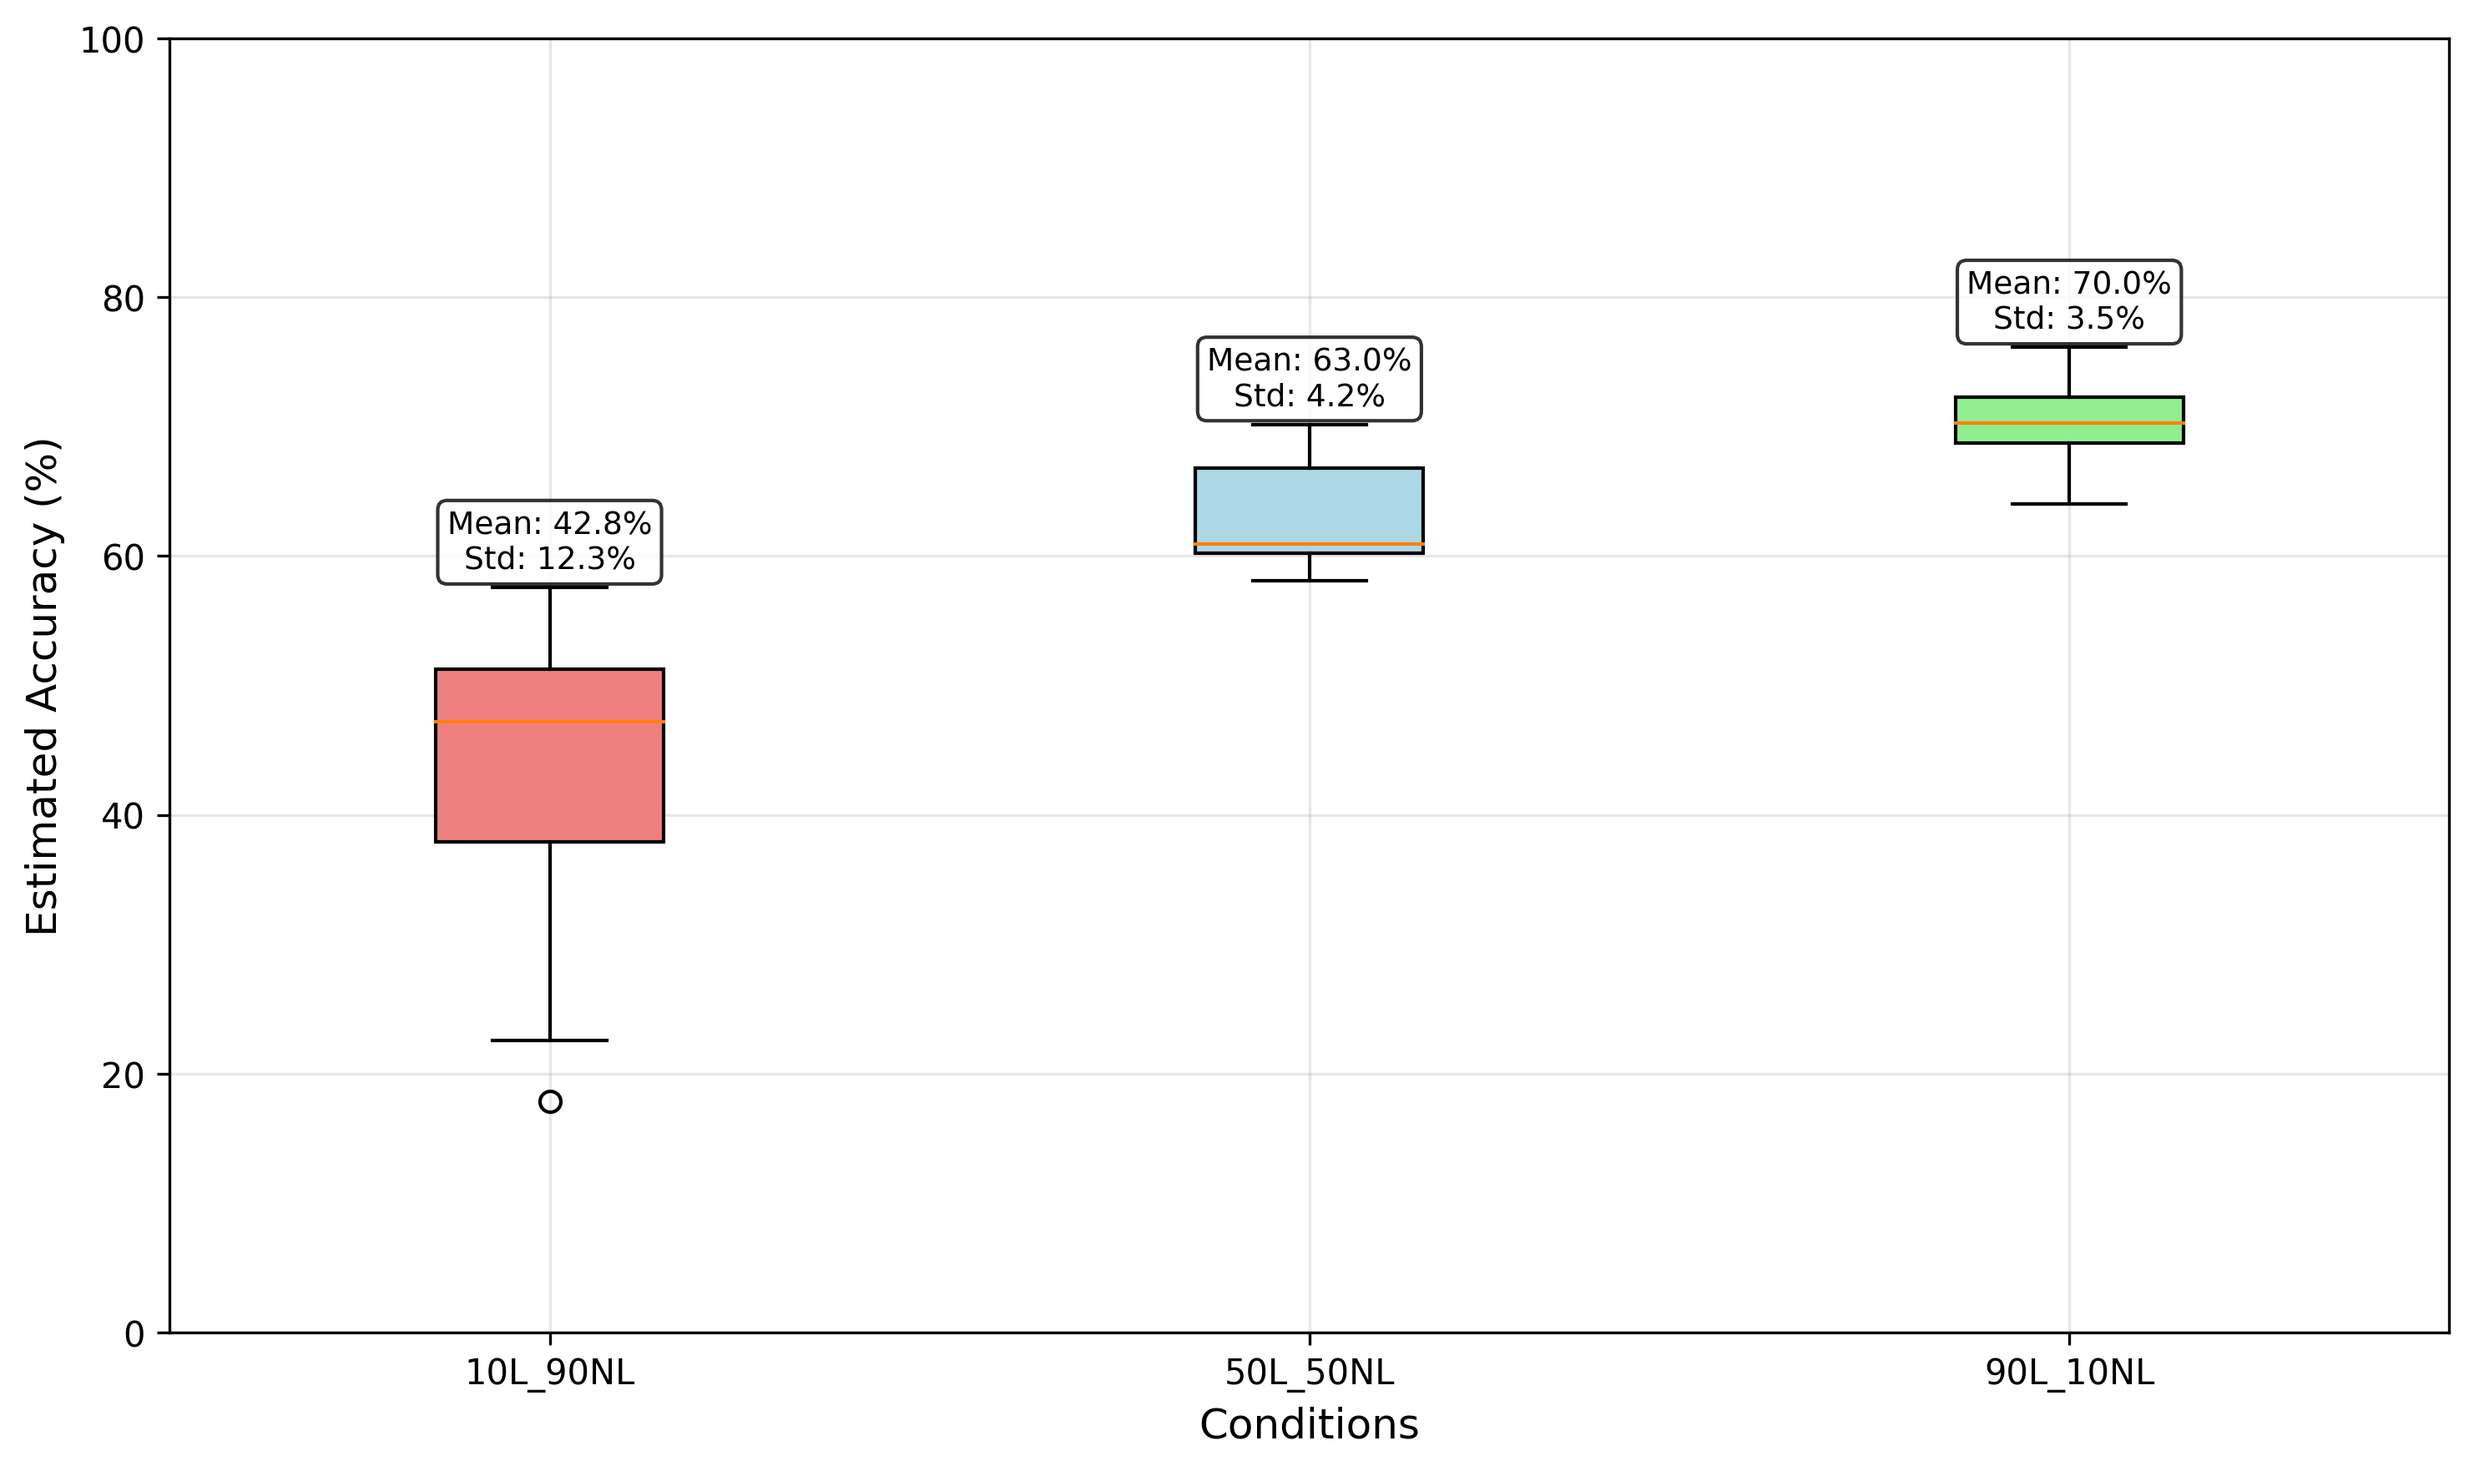
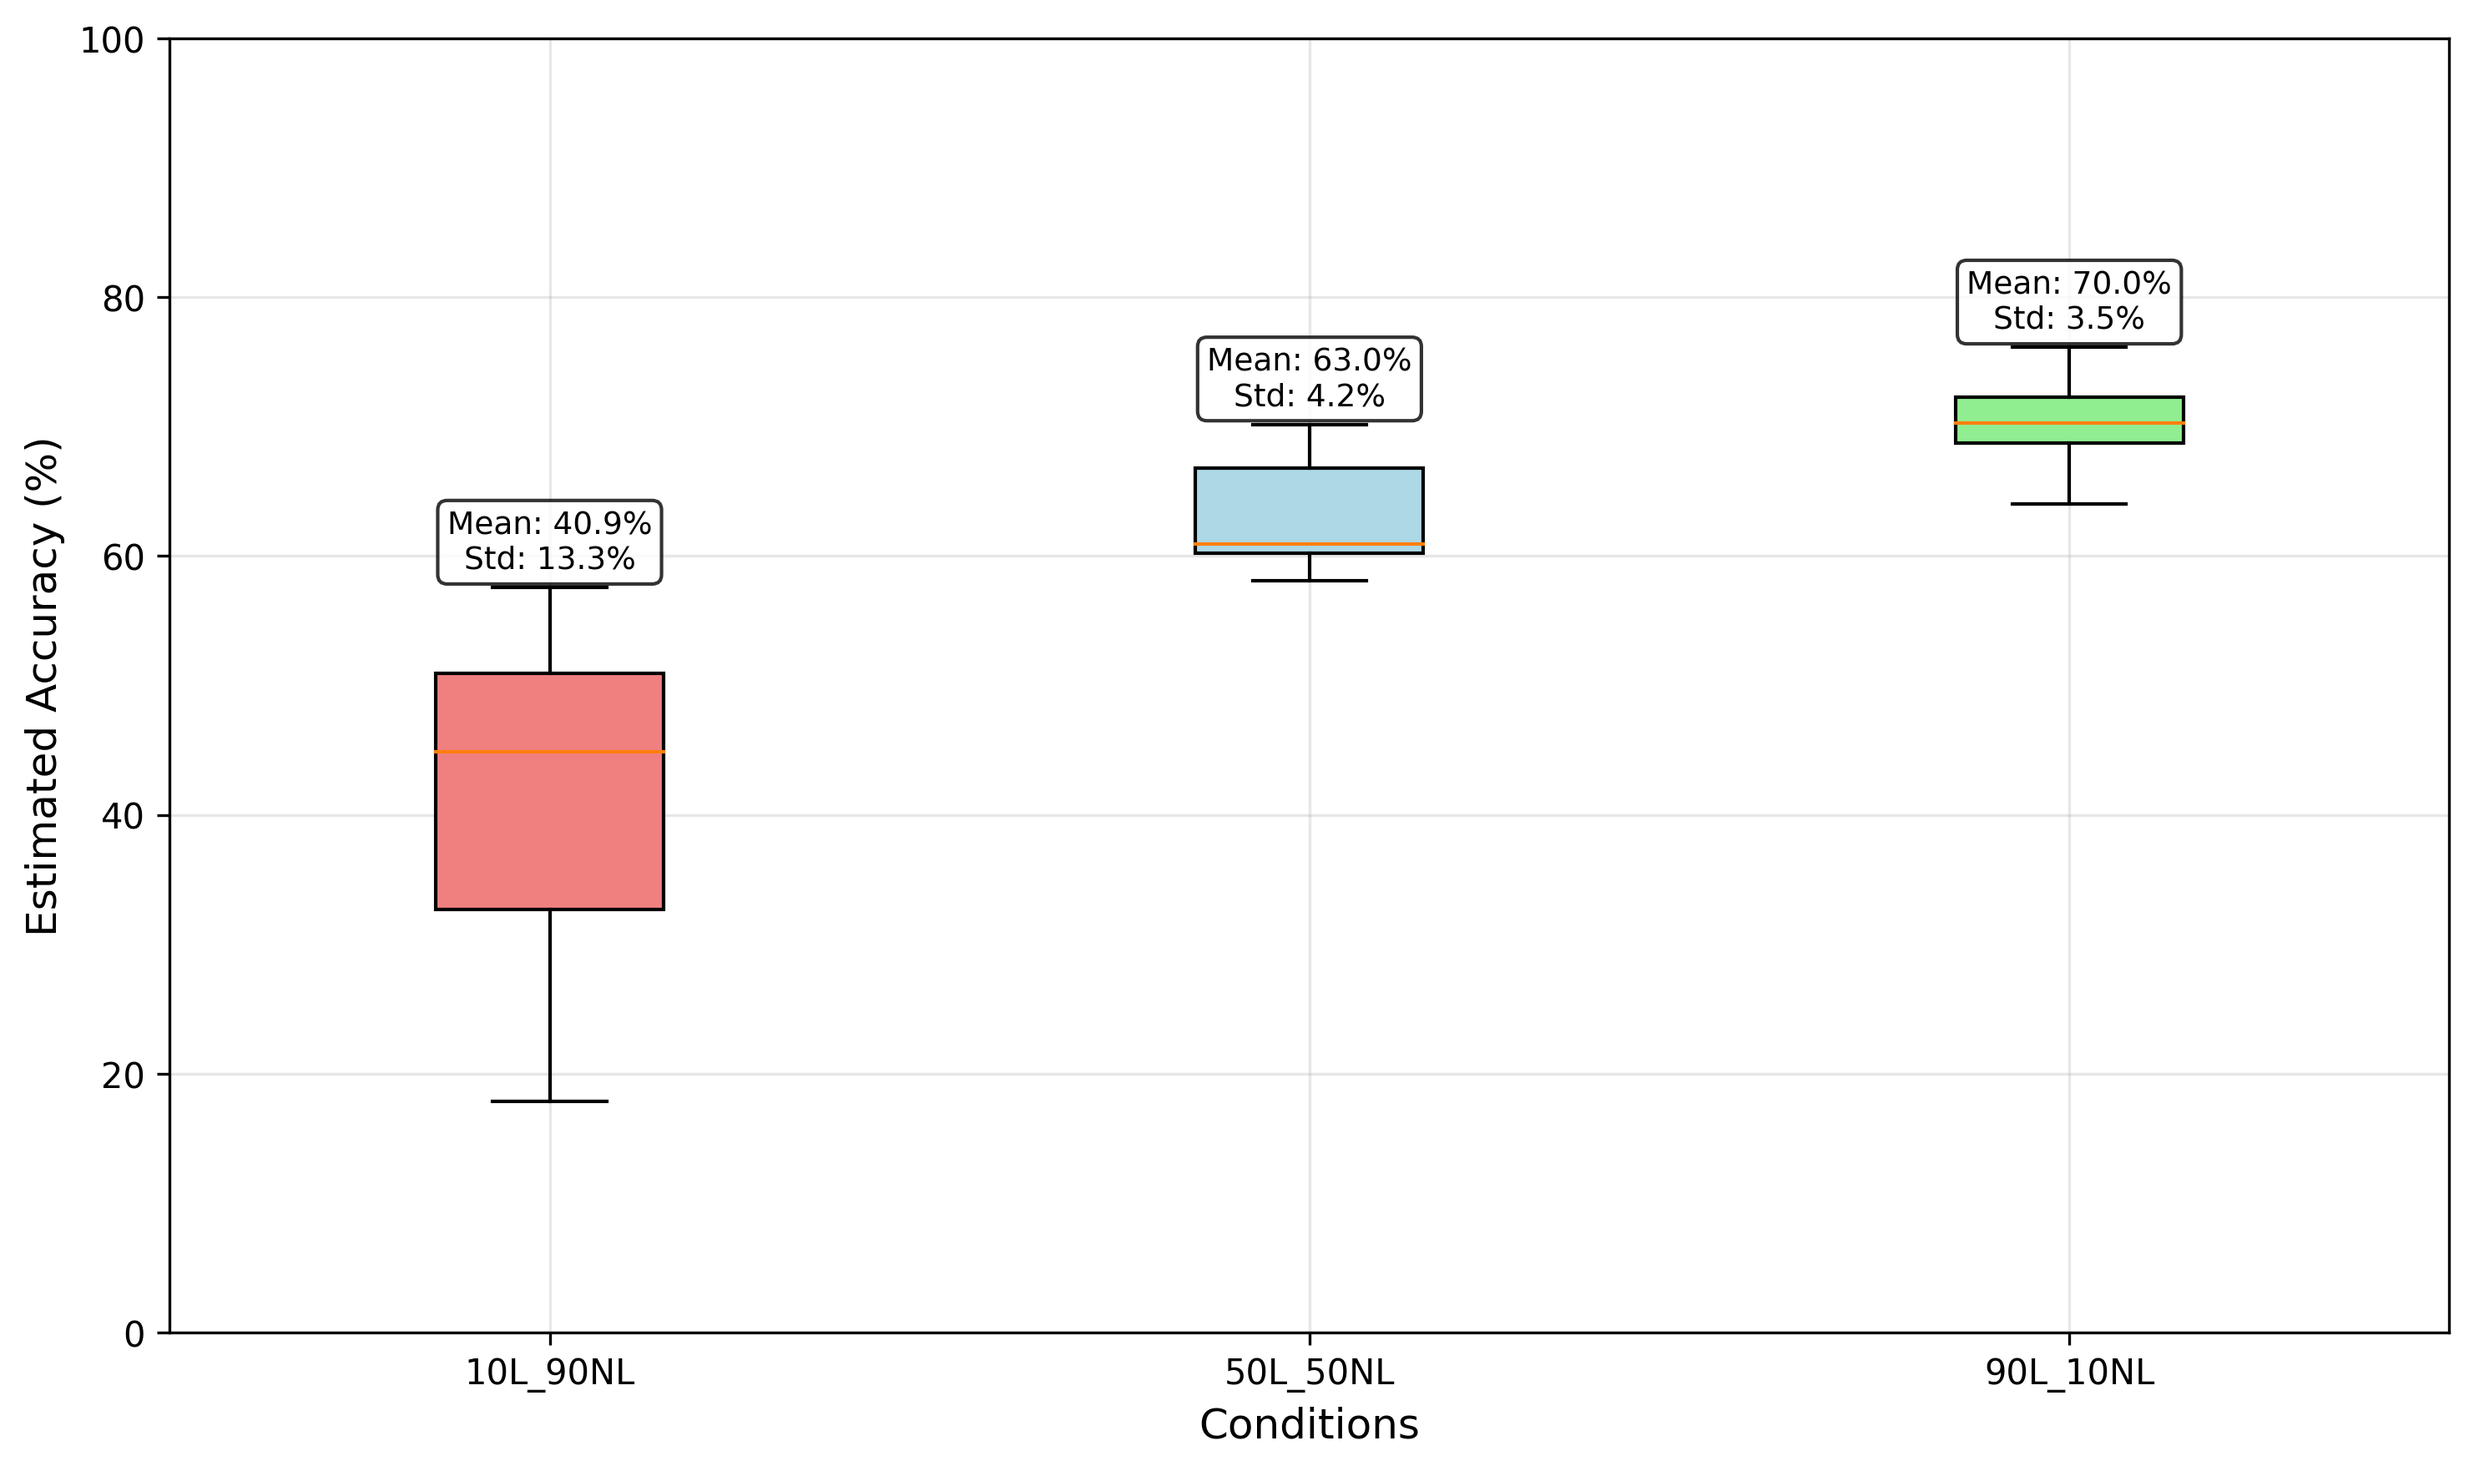
add overall accuracy

Changed region(s): [[0.1552, 0.5615, 0.2794, 0.6239], [0.1862, 0.4368, 0.2794, 0.468]]

diff --git a/scripts/accuracies/plot_accuracies.py b/scripts/accuracies/plot_accuracies.py
@@ -6,36 +6,25 @@ import numpy as np
 from collections import defaultdict
 
 def parse_accuracies(file_path):
-    """Parse the accuracy file and extract estimated accuracies by group."""
-    
     with open(file_path, 'r') as f:
         content = f.read()
     
-    # Dictionary to store accuracies by group
     accuracies = defaultdict(list)
-    
-    # Split content by model names (lines that start with group names)
     sections = re.split(r'\n(10L_90NL|50L_50NL|90L_10NL)_\d+_\d+', content)
     
-    # Process each section
     for i in range(1, len(sections), 2):
         if i + 1 < len(sections):
             group_name = sections[i]
             section_content = sections[i + 1]
             
-            # Extract estimated accuracy from the section
             accuracy_match = re.search(r'Estimated accuracy: ([\d.]+)', section_content)
             if accuracy_match:
                 accuracy = float(accuracy_match.group(1))
-                # Multiply by 100 to convert to percentage
                 accuracies[group_name].append(accuracy * 100)
     
     return accuracies
 
 def create_box_plot(accuracies):
-    """Create a box plot of accuracies by group."""
-    
-    # Prepare data for plotting
     groups = []
     data = []
     
@@ -44,26 +33,18 @@ def create_box_plot(accuracies):
             groups.append(group_name)
             data.append(accuracies[group_name])
     
-    # Create the box plot
     plt.figure(figsize=(10, 6))
     box_plot = plt.boxplot(data, labels=groups, patch_artist=True)
     
-    # Customize colors
     colors = ['lightcoral', 'lightblue', 'lightgreen']
     for patch, color in zip(box_plot['boxes'], colors):
         patch.set_facecolor(color)
     
-    # Add labels
     plt.xlabel('Conditions', fontsize=12)
     plt.ylabel('Estimated Accuracy (%)', fontsize=12)
-    
-    # Add grid for better readability
     plt.grid(True, alpha=0.3)
-    
-    # Set y-axis range from 0 to 100
     plt.ylim(0, 100)
     
-    # Add statistics text
     for i, (group, values) in enumerate(zip(groups, data)):
         mean_val = np.mean(values)
         std_val = np.std(values)
@@ -71,13 +52,11 @@ def create_box_plot(accuracies):
                 ha='center', va='bottom', fontsize=9, 
                 bbox=dict(boxstyle='round,pad=0.3', facecolor='white', alpha=0.8))
     
-    # Adjust layout and save
     plt.tight_layout()
-    plt.savefig('/home/akhilesh/projects/research/feature_invariant_transformer/analysis/accuracies/accuracy_boxplot.png', 
+    plt.savefig('../../analysis/accuracies/accuracy_boxplot.png', 
                 dpi=300, bbox_inches='tight')
     plt.show()
     
-    # Print summary statistics
     print("Summary Statistics:")
     print("=" * 50)
     for group_name in ['10L_90NL', '50L_50NL', '90L_10NL']:
@@ -93,9 +72,6 @@ def create_box_plot(accuracies):
             print()
 
 if __name__ == "__main__":
-    # Parse the accuracy file
-    file_path = '/home/akhilesh/projects/research/feature_invariant_transformer/analysis/accuracies/all_accuracies.txt'
+    file_path = '../../analysis/accuracies/all_accuracies.txt'
     accuracies = parse_accuracies(file_path)
-    
-    # Create and display the box plot
     create_box_plot(accuracies)
